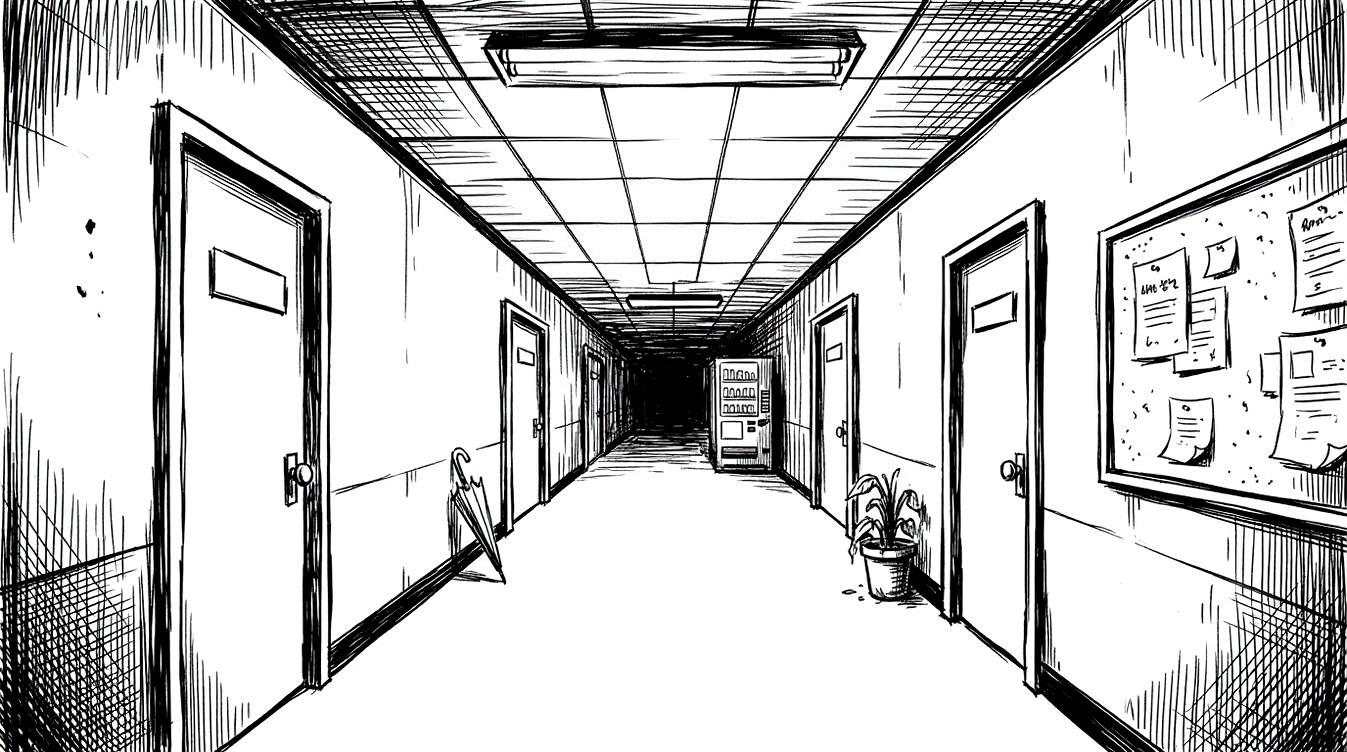
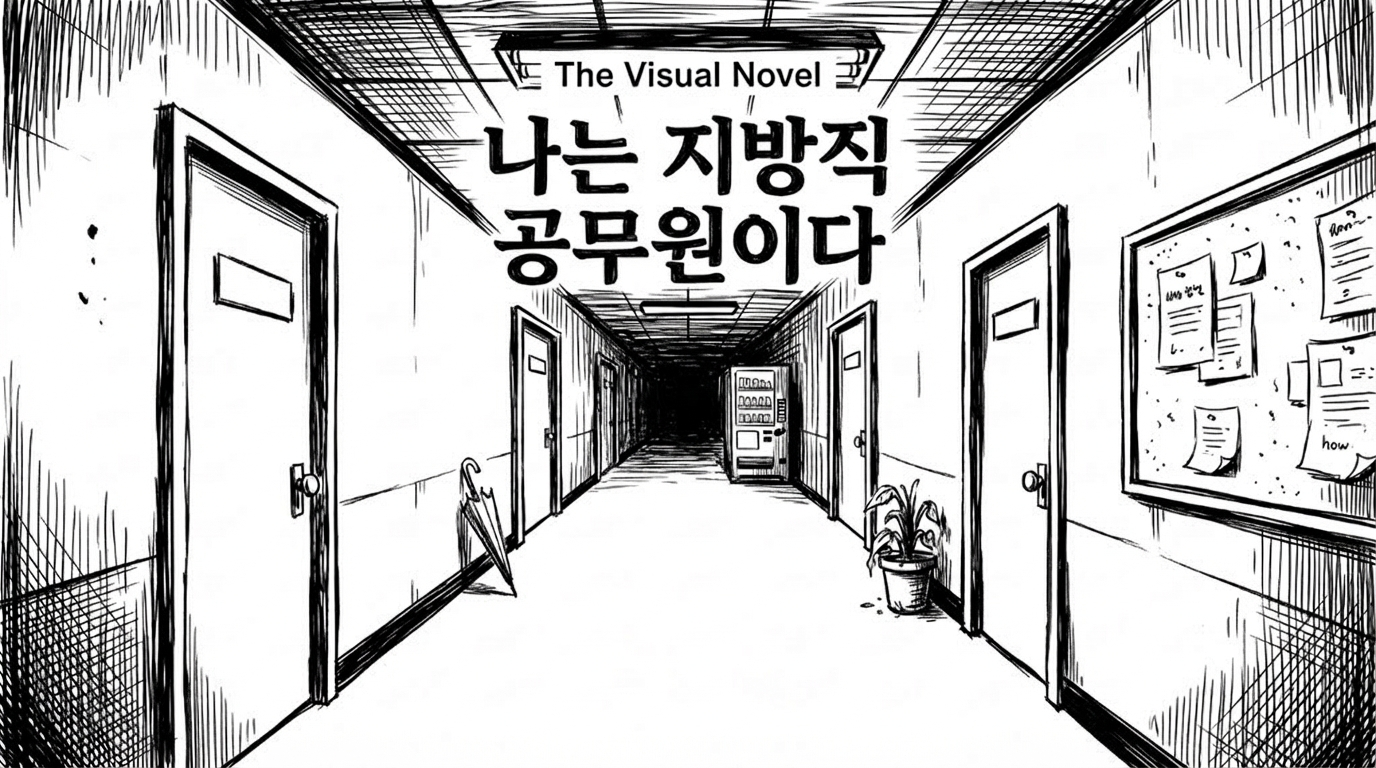
시작화면: 타이틀 텍스트 제거, 새 배경 이미지 적용, 버튼만 유지

Changed region(s): [[0.0, 0.0, 1.0, 1.0], [0.1247, 0.4894, 0.1559, 0.5199]]

diff --git a/app/novel/page.tsx b/app/novel/page.tsx
@@ -307,43 +307,13 @@ export default function NovelPage() {
           {/* 밝기 오버레이 */}
           <div style={{ position: 'absolute', inset: 0, background: 'rgba(235,230,220,0.18)' }} />
 
-          {/* 콘텐츠 레이어 */}
-          <div style={{
-            position: 'absolute', inset: 0,
-            display: 'flex', flexDirection: 'column', alignItems: 'center', justifyContent: 'center',
-            gap: 0, paddingBottom: '16%',
-          }}>
-            {/* The Visual Novel 뱃지 */}
-            <div style={{
-              transform: `translate(${dx * 4}px, ${dy * 3}px)`,
-              transition: 'transform 0.3s ease-out',
-              animation: 'subFloat 4s ease-in-out infinite',
-              border: '2px solid #111', padding: '3px 16px', marginBottom: 'clamp(8px,2vw,14px)',
-              fontFamily: 'serif', fontSize: 'clamp(0.62rem,1.5vw,0.85rem)', fontWeight: 700,
-              background: 'rgba(255,255,255,0.82)', color: '#111', letterSpacing: '0.12em',
-              opacity: 0, animationFillMode: 'forwards',
-            }}
-              onAnimationStart={e => { (e.currentTarget as HTMLElement).style.opacity = '1'; }}
-            >The Visual Novel</div>
-
-            {/* 메인 타이틀 */}
-            <div style={{
-              transform: `translate(${dx * 8}px, ${dy * 5}px)`,
-              transition: 'transform 0.25s ease-out',
-              animation: 'titleFloat 3.5s ease-in-out infinite',
-              fontSize: 'clamp(2.2rem,6.5vw,4.8rem)', fontWeight: 900, color: '#0e0e0e',
-              textAlign: 'center', lineHeight: 1.08,
-              textShadow: '2px 2px 0 rgba(0,0,0,0.08)',
-              letterSpacing: '-0.01em',
-            }}>나는 지방직<br />공무원이다</div>
-
-            {/* 시작하기 버튼 */}
+          {/* 시작하기 버튼만 */}
+          <div style={{ position: 'absolute', inset: 0, display: 'flex', alignItems: 'flex-end', justifyContent: 'center', paddingBottom: '10%' }}>
             <button
               onClick={startGame}
               onMouseEnter={() => setBtnHover(true)}
               onMouseLeave={() => setBtnHover(false)}
               style={{
-                marginTop: 'clamp(1.2rem,3.5vw,2.2rem)',
                 padding: 'clamp(0.55rem,1.4vw,0.85rem) clamp(1.8rem,5vw,3.2rem)',
                 background: btnHover ? '#111' : 'rgba(255,255,255,0.88)',
                 border: '2.5px solid #111',
